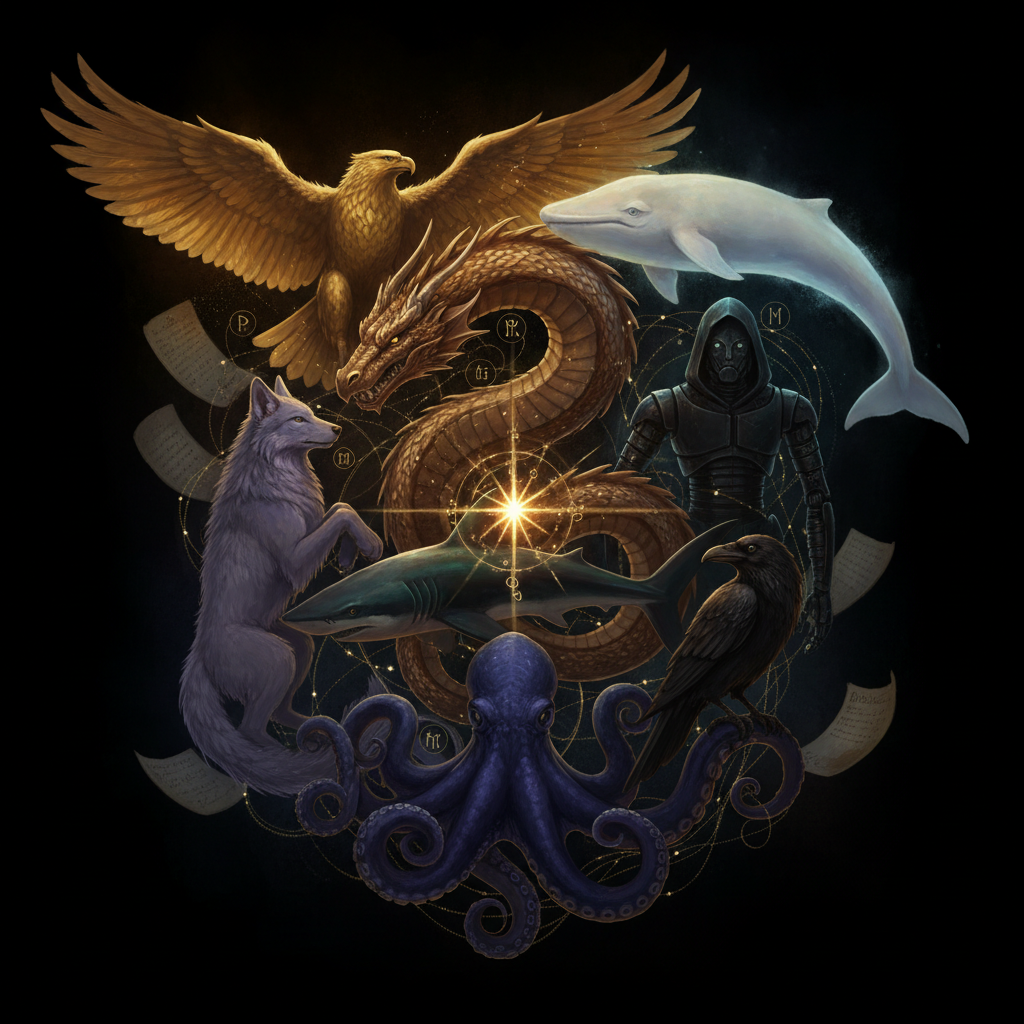
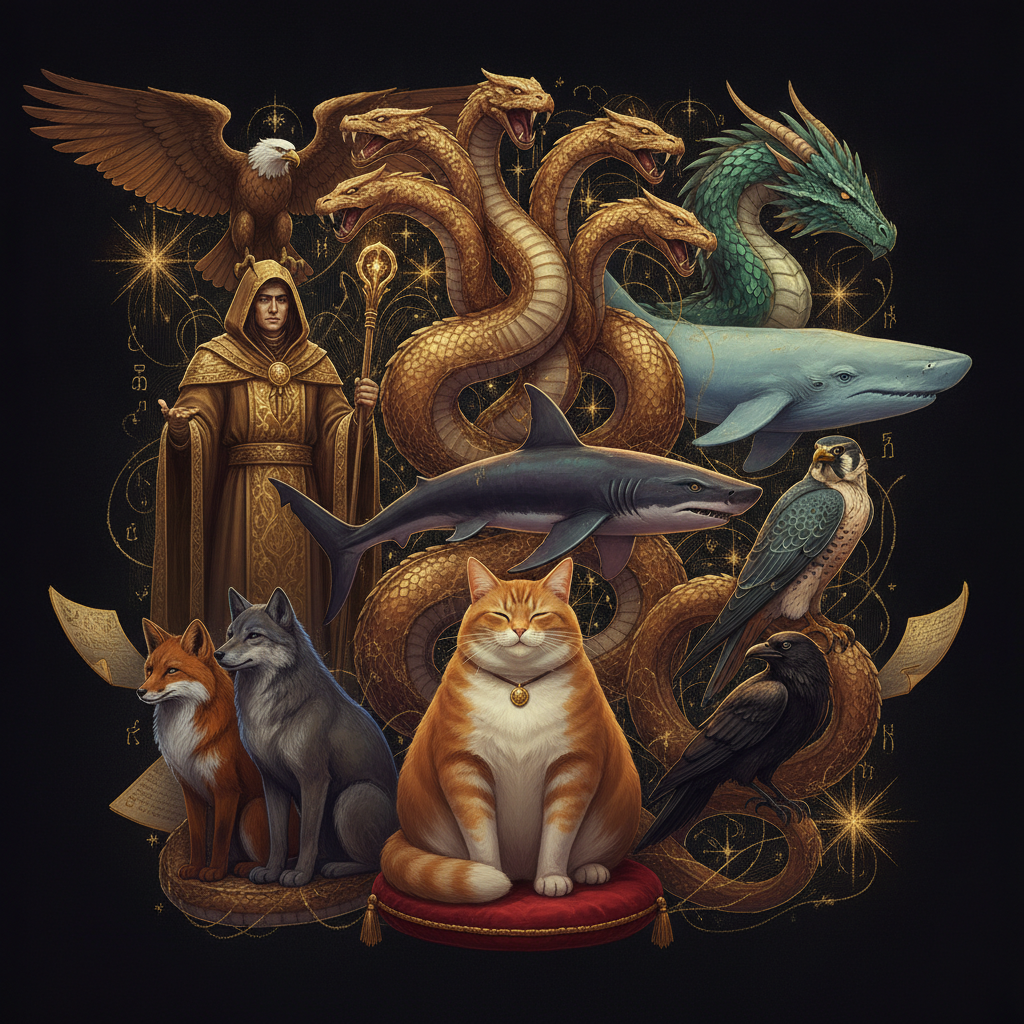
tuck box: draw the set's own creatures, not invented ones
james asked for "all the different categories of animal from the different
models overlapping". the previous hero was generated from a generic prompt and
put an octopus on the cover, which is on no card in this set, while leaving out
the animals that actually define it.

checked against the 23 card arts. the set's creatures are a golden many-headed
serpent, a hooded archmage, an eagle, a teal dragon, a blue whale (gemini 3.1
pro, so the whale was right), a shark, a falcon, a fox, a wolf, a raven, an
automaton, and le chaton fat. the new hero draws those, with the fat cat front
and centre where the joke lands.

art is contained rather than cropped now. the crest is a designed composition and
the window was cutting the eagle's wingtips and the serpent heads out of frame.

one gap: the thinking machines automaton did not render. a second pass placed it
but drew a card frame with a white margin, went portrait, and merged the fox and
wolf into one shape, so the first is kept. thinking machines is still named in
the lab line.

diff --git a/card-visual-research/cards/_pack/free-systems-cover/free-systems-cover.html b/card-visual-research/cards/_pack/free-systems-cover/free-systems-cover.html
@@ -149,7 +149,9 @@ body{
 .tuck .wordmark{font-size:34px}
 .tuck .art{margin-top:12px;width:100%;flex:1 1 auto;display:flex}
 .tuck .art-win{flex:1 1 auto;height:auto;min-height:300px}
-.tuck .art-win img{object-position:50% 50%}
+.tuck .art-win img{object-fit:contain;object-position:50% 50%;background:#0b0805}
+/* the crest is a designed composition, so show it whole rather than cropping
+   the eagle's wingtips and the serpent heads out of frame */
 .tuck .labs{margin-top:14px;font-family:'JetBrains Mono',monospace;font-size:8.6px;
   font-weight:600;letter-spacing:.13em;color:var(--ink2);line-height:1.85;text-align:center;
   max-width:92%}

diff --git a/card-visual-research/cards/_pack/free-systems-tuckbox/free-systems-tuckbox.html b/card-visual-research/cards/_pack/free-systems-tuckbox/free-systems-tuckbox.html
@@ -149,7 +149,9 @@ body{
 .tuck .wordmark{font-size:34px}
 .tuck .art{margin-top:12px;width:100%;flex:1 1 auto;display:flex}
 .tuck .art-win{flex:1 1 auto;height:auto;min-height:300px}
-.tuck .art-win img{object-position:50% 50%}
+.tuck .art-win img{object-fit:contain;object-position:50% 50%;background:#0b0805}
+/* the crest is a designed composition, so show it whole rather than cropping
+   the eagle's wingtips and the serpent heads out of frame */
 .tuck .labs{margin-top:14px;font-family:'JetBrains Mono',monospace;font-size:8.6px;
   font-weight:600;letter-spacing:.13em;color:var(--ink2);line-height:1.85;text-align:center;
   max-width:92%}

diff --git a/card-visual-research/build_cover.py b/card-visual-research/build_cover.py
@@ -51,7 +51,9 @@ COVER_CSS = """
 .tuck .wordmark{font-size:34px}
 .tuck .art{margin-top:12px;width:100%;flex:1 1 auto;display:flex}
 .tuck .art-win{flex:1 1 auto;height:auto;min-height:300px}
-.tuck .art-win img{object-position:50% 50%}
+.tuck .art-win img{object-fit:contain;object-position:50% 50%;background:#0b0805}
+/* the crest is a designed composition, so show it whole rather than cropping
+   the eagle's wingtips and the serpent heads out of frame */
 .tuck .labs{margin-top:14px;font-family:'JetBrains Mono',monospace;font-size:8.6px;
   font-weight:600;letter-spacing:.13em;color:var(--ink2);line-height:1.85;text-align:center;
   max-width:92%}
